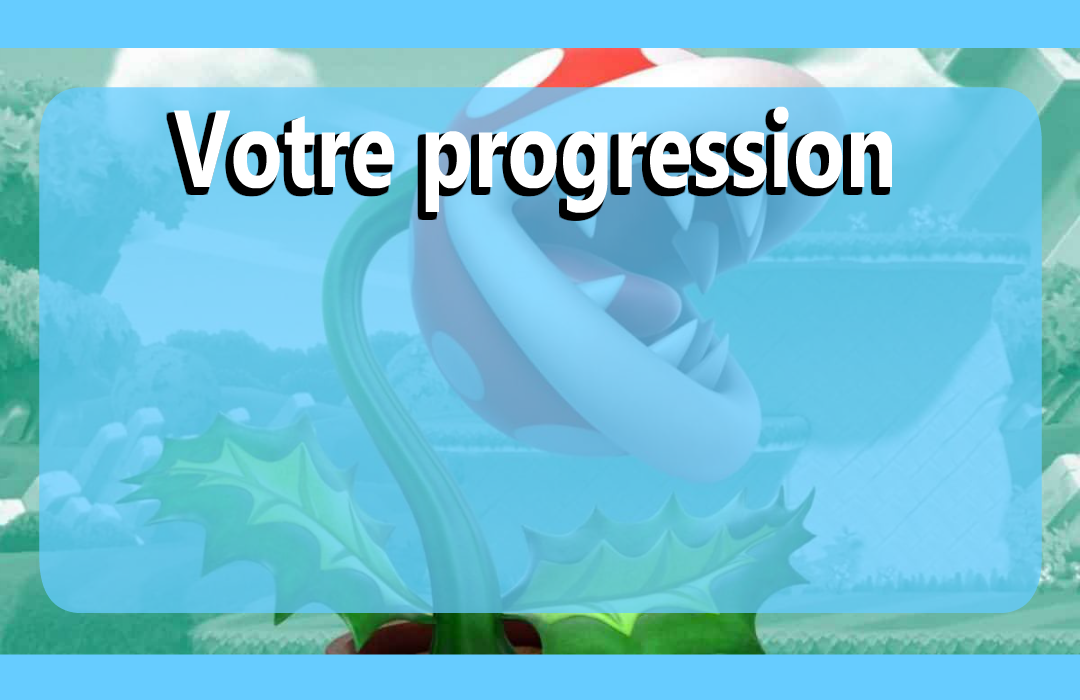
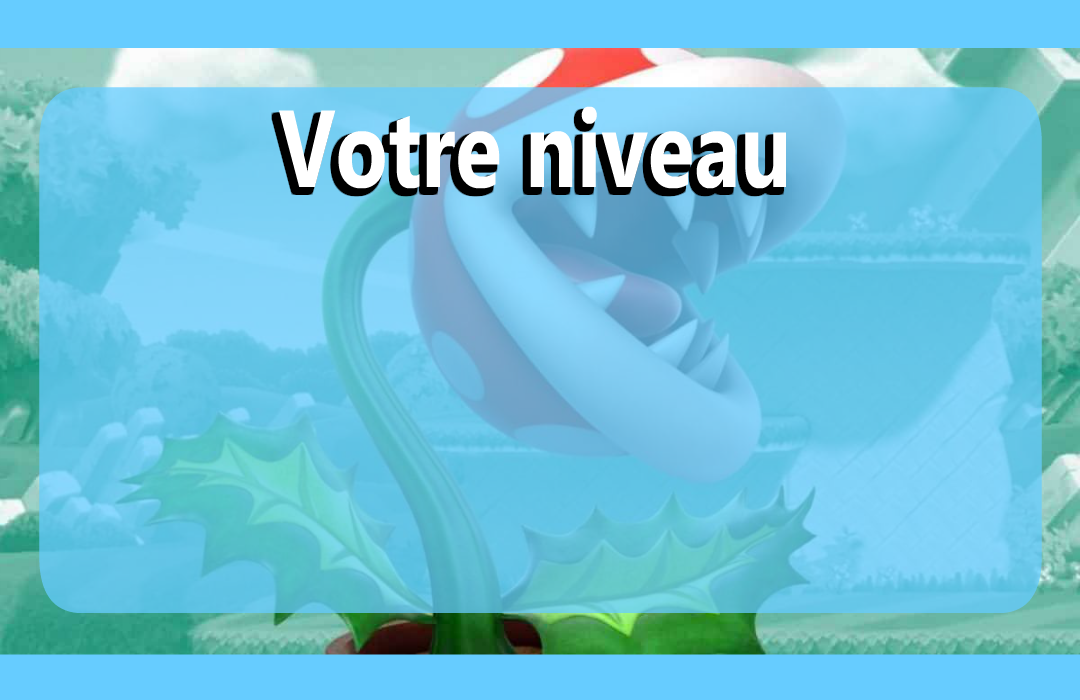
Updated plant progression and gardener progression in scenario

Changed region(s): [[0.1528, 0.15, 0.825, 0.33]]

diff --git a/scenario.py b/scenario.py
@@ -8,7 +8,7 @@ import cv2
 from datas.models.Flower import Flower
 from datas.models.Garden import Garden
 from datas.repositories.PlayerRepository import PlayerRepository
-from utils.img_utils import draw_text_onto_image, xp_bar_draw
+from utils.img_utils import draw_text_onto_image, xp_bar_draw, add_sub_image
 
 PYTHON_LOGGER = logging.getLogger(__name__)
 if not os.path.exists("log"):
@@ -54,6 +54,9 @@ DANCE = os.path.join(FOLDER_ABSOLUTE_PATH, "ressources", "videos", "karaoke", "d
 KARAOKE_GANG_NAMSEUTAYIL = os.path.join(FOLDER_ABSOLUTE_PATH, "ressources", "videos", "karaoke",
                                         "karaoke_gang-namseutayil.mp4")
 NIVEAU_DU_JARDINIER = os.path.join(FOLDER_ABSOLUTE_PATH, "ressources", "images", "NiveauDuJardinier.png")
+PROCHAIN_NIVEAU_DU_JARDINIER = os.path.join(FOLDER_ABSOLUTE_PATH, "ressources", "images",
+                                            "ProchainNiveauDuJardinier.png")
+JARDINIER_RANG = os.path.join(FOLDER_ABSOLUTE_PATH, "ressources", "images", "rangs", "JardinierRang")
 LISTE_DES_COMMANDES = os.path.join(FOLDER_ABSOLUTE_PATH, "ressources", "images", "ListeDesCommandes.png")
 ETAPES_PLANTE = os.path.join(FOLDER_ABSOLUTE_PATH, "ressources", "images", "etapes", "Etape")
 ANIMATIONS = os.path.join(FOLDER_ABSOLUTE_PATH, "ressources", "videos", "animations")
@@ -139,18 +142,39 @@ class Scenario:
         self.py_video_mapping.show_image(2, "{}{}Plante.png".format(ETAT_PLANTE, next_state))
 
     def display_plant_progression(self, flower: Flower):
-        animation_name = "{}_plant.mp4".format(flower.mood.value)
-        self.py_video_mapping.show_video(0, os.path.join(ANIMATIONS, animation_name), True)
+        previous_mood_animation_name = "{}_plant.mp4".format(flower.saved_moods[len(flower.saved_moods) - 1].value)
+        current_mood_animation_name = "{}_plant.mp4".format(flower.mood.value)
+        self.py_video_mapping.show_video(0, os.path.join(ANIMATIONS, previous_mood_animation_name), True)
         # TODO faire le graphique
         self.py_video_mapping.show_image(1, COMMANDE_PROGRESSION_PLANTE)
-        self.py_video_mapping.show_video(2, os.path.join(ANIMATIONS, animation_name), True)
+        self.py_video_mapping.show_video(2, os.path.join(ANIMATIONS, current_mood_animation_name), True)
 
     def display_gardener_progression(self, player_repo: PlayerRepository):
-        gardener_level_image = draw_text_onto_image(cv2.imread(NIVEAU_DU_JARDINIER),
-                                                    "{}".format(player_repo.player.level), 300, 500, 10, (0, 0, 0), 20)
-        self.py_video_mapping.show_image(0, gardener_level_image)
+        rank_img_name = player_repo.player.level + 1
+        print(rank_img_name)
+        if rank_img_name > 5:
+            rank_img_name = 5
+        next_rank_img_name = player_repo.player.level + 2
+        if next_rank_img_name > 5:
+            next_rank_img_name = 5
+
+        gardener_current_rank_image = add_sub_image(cv2.imread(NIVEAU_DU_JARDINIER),
+                                                    cv2.imread("{}{}.png".format(JARDINIER_RANG, rank_img_name)), 200,
+                                                    250)
+        gardener_next_rank_image = add_sub_image(cv2.imread(PROCHAIN_NIVEAU_DU_JARDINIER),
+                                                 cv2.imread("{}{}.png".format(JARDINIER_RANG, next_rank_img_name)), 200,
+                                                 250)
+
+        gardener_current_rank_with_level_image = draw_text_onto_image(gardener_current_rank_image,
+                                                                      "{}".format(player_repo.player.level), 600, 500,
+                                                                      10, (0, 0, 0), 20)
+        gardener_next_rank_with_level_image = draw_text_onto_image(gardener_next_rank_image,
+                                                                   "{}".format(player_repo.player.level + 1), 600, 500,
+                                                                   10, (0, 0, 0), 20)
+
+        self.py_video_mapping.show_image(0, gardener_current_rank_with_level_image)
         self.py_video_mapping.show_image(1, xp_bar_draw(player_repo.xp_percent_to_next_level()))
-        self.py_video_mapping.show_image(2, gardener_level_image)
+        self.py_video_mapping.show_image(2, gardener_next_rank_with_level_image)
 
     # Help
     def display_command_list(self):

diff --git a/datas/models/Flower.py b/datas/models/Flower.py
@@ -18,10 +18,12 @@ class Flower:
     MAX_RANK = 5
 
     def __init__(self, rank: int = 1, planted_at=datetime.today(), config_reader: ConfigReader = ConfigReader()):
-        self.mood = Mood.STANDING  # based on the last time the plant was looked after
+        self.__mood = Mood.STANDING  # based on the last time the plant was looked after
         self.rank = rank
         self.planted_at = planted_at
         self.updated_at = datetime.today()
+
+        self.saved_moods = [Mood.STANDING]  # to save previous moods
 
         try:
             mood_time_sad = config_reader.Plant.getfloat("mood_time_sad")
@@ -35,22 +37,25 @@ class Flower:
 
     @property
     def mood(self):
+        self.saved_moods.append(self.__mood)
         time = (datetime.today() - self.updated_at).seconds
         time_happy = 0.0 <= time <= self.TIME_HAPPY
         time_standing = self.TIME_HAPPY <= time <= self.TIME_STANDING
         time_angry = self.TIME_STANDING <= time <= self.TIME_ANGRY
 
         if time_happy:
-            return Mood.HAPPY
+            self.__mood = Mood.HAPPY
         elif time_standing:
-            return Mood.STANDING
+            self.__mood = Mood.STANDING
         elif time_angry:
-            return Mood.ANGRY
+            self.__mood = Mood.ANGRY
         else:
-            return Mood.SAD
+            self.__mood = Mood.SAD
+        return self.__mood
 
     @mood.setter
     def mood(self, mood: Mood):
+        self.saved_moods.append(self.mood.value)
         if mood == Mood.HAPPY:
             self.make_update()
         self.__mood = mood
